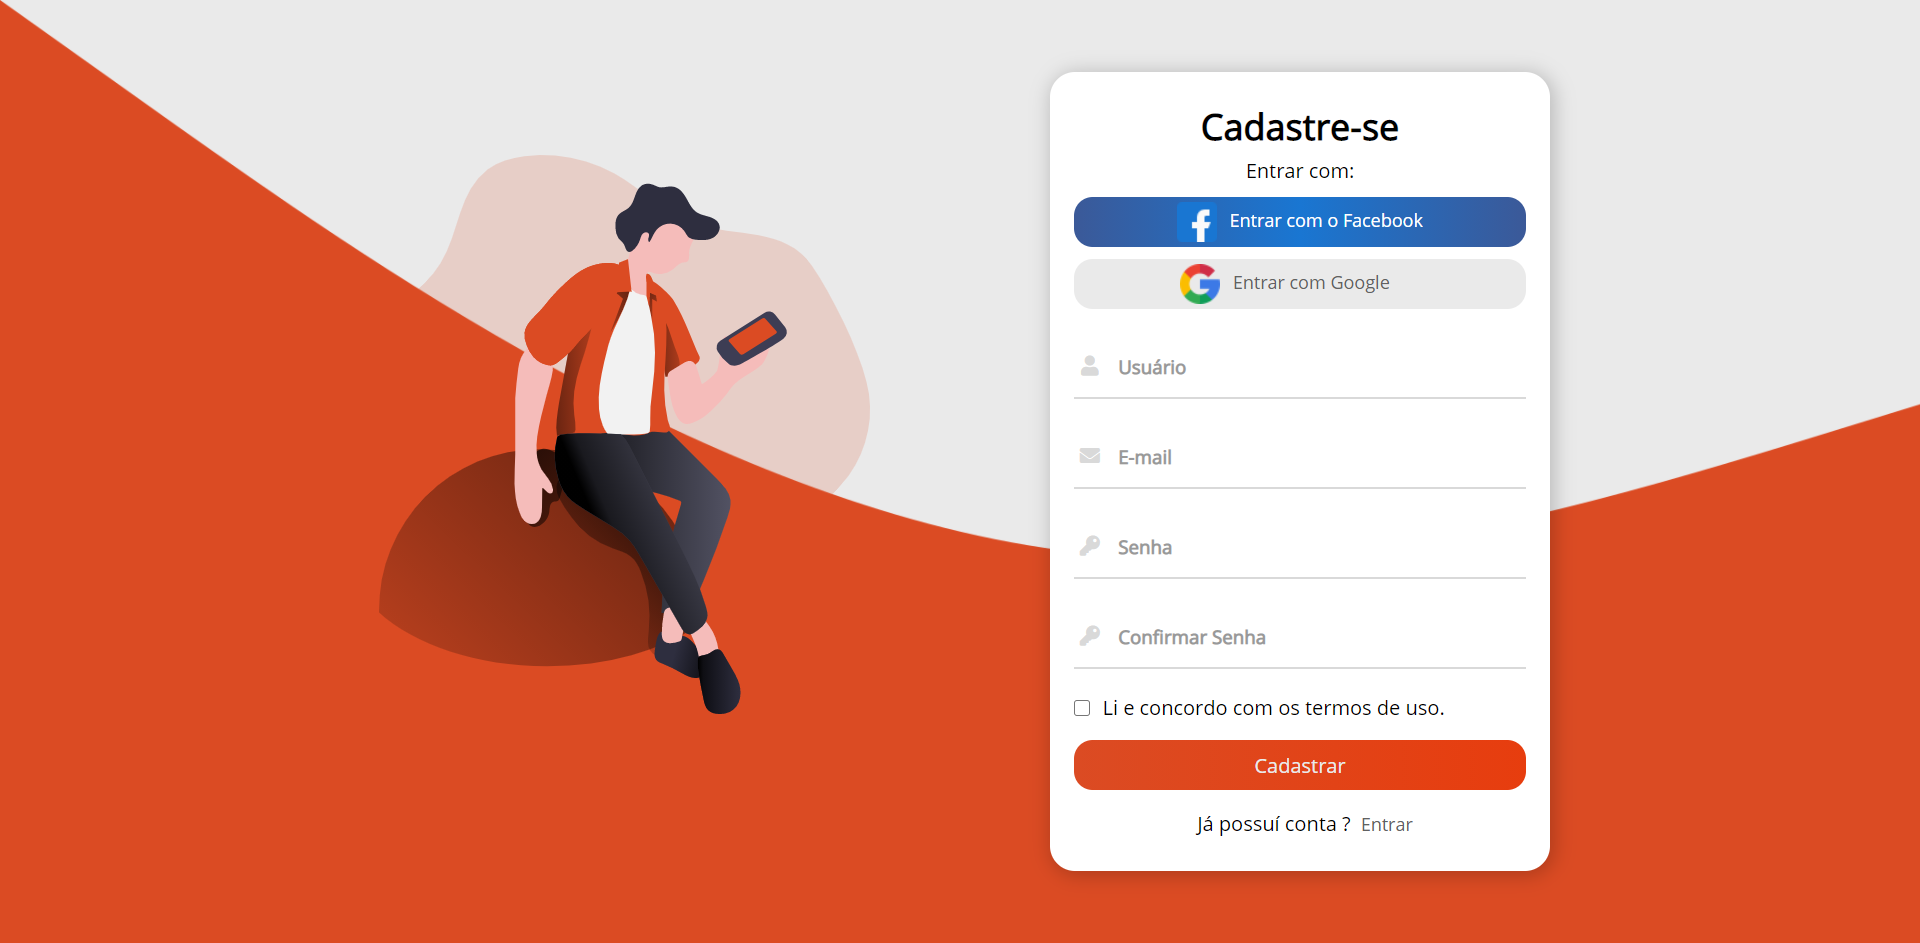
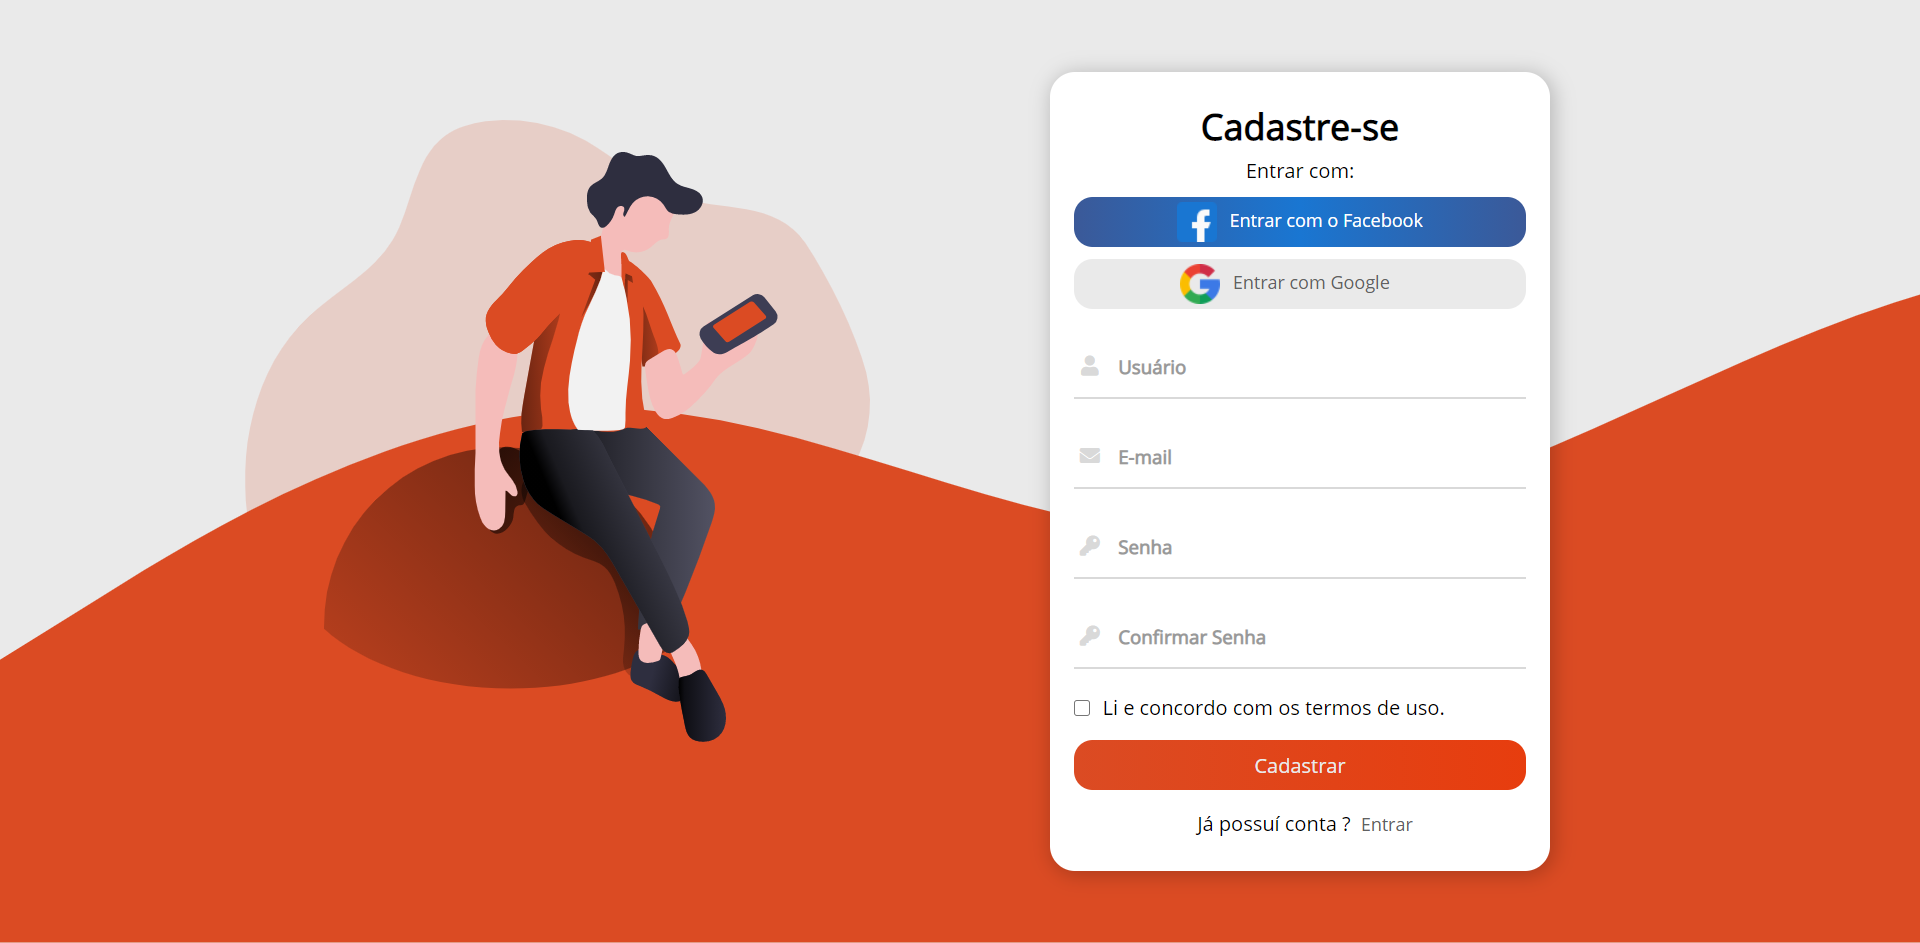
Layout and responsive improvements

Changed region(s): [[0.0, 0.0, 0.5625, 0.7996], [0.7812, 0.3075, 1.0, 0.5536], [0.4062, 0.246, 0.4375, 0.3075]]

diff --git a/css/style.css b/css/style.css
@@ -35,7 +35,7 @@ body {
 }
 
 .img img {
-  width: 450px;
+  width: 500px;
 }
 
 .login-container {
@@ -126,12 +126,12 @@ form h2 {
   transition: 0.3s;
 }
 
-.input-div > div {
+.input-div>div {
   position: relative;
   height: 40px;
 }
 
-.input-div > div h5 {
+.input-div>div h5 {
   position: absolute;
   left: 10px;
   top: 50%;
@@ -290,7 +290,7 @@ a:hover {
   }
 
   .img img {
-    width: 350px;
+    width: 400px;
   }
 }
 
@@ -316,5 +316,14 @@ a:hover {
   form {
     width: 300px;
     margin: 1rem 0;
+  }
+
+  .terms {
+    margin: 0;
+  }
+
+  .terms input {
+    margin-top: 5px;
+    align-self: start;
   }
 }

diff --git a/forgotPassword.html b/forgotPassword.html
@@ -16,7 +16,7 @@
 </head>
 
 <body>
-    <img class="wave" src="img/wave3.png">
+    <img class="wave" src="img/wave.svg">
     <div class="container">
         <div class="img">
             <img src="img/personalization.svg">

diff --git a/login.html b/login.html
@@ -16,7 +16,7 @@
 </head>
 
 <body>
-    <img class="wave" src="img/wave5.png">
+    <img class="wave" src="img/wave.svg">
     <div class="container">
         <div class="img">
             <img src="img/authentication.svg">

diff --git a/register.html b/register.html
@@ -16,7 +16,7 @@
 </head>
 
 <body>
-    <img class="wave" src="img/wave3.png">
+    <img class="wave" src="img/wave.svg">
     <div class="container">
         <div class="img">
             <img src="img/login-mobile.svg">
